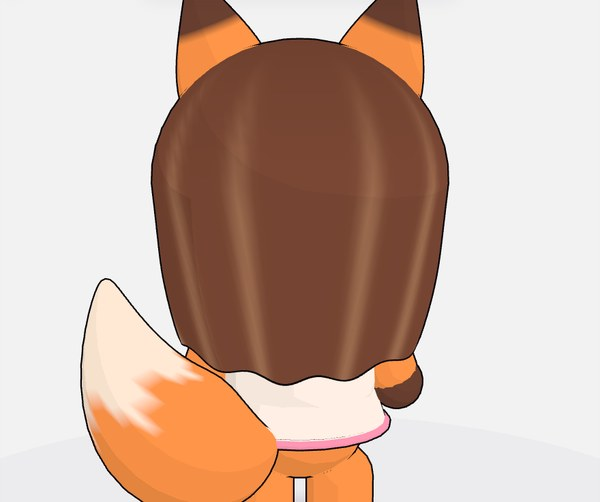
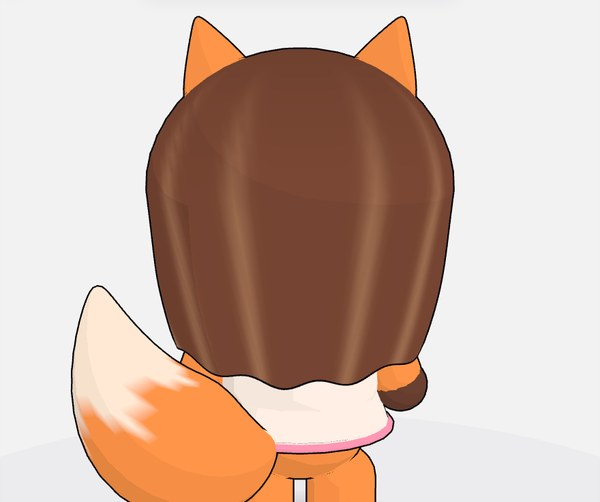
Review page for neb636/joy-look

diff --git a/neb636--joy-look/index.html b/neb636--joy-look/index.html
@@ -37,15 +37,15 @@ button:focus-visible,.pill:focus-visible{outline:3px solid var(--ink);outline-of
 </style></head><body><main>
 <span class="chip">Check-in fix</span>
 <h1>Joy: a fox that looks like Joy</h1>
-<p class="kaylee">Aunt Joy at Agong's house is a proper fox now, with Joy's long hair, big smile and lace blouse.</p>
+<p class="kaylee">Aunt Joy at Agong's house is a proper fox now, with Joy's long hair, big smile and lace blouse. Since your notes: no white beard (only her snout is white), and smaller, all-orange ears.</p>
 
 
 <h2>Before and after</h2><div class="pics"><figure class="solo"><img src="pics/joy-turn.gif" alt="All the way round" loading="lazy">
 <figcaption><b>All the way round</b>: The new Joy, turning in the character lab</figcaption></figure>
 <figure class="pair"><div><img src="pics/joy-front-before.jpg" alt="Before: From the front" loading="lazy"><span>Before</span></div><div><img src="pics/joy-front-after.jpg" alt="After: From the front" loading="lazy"><span>After</span></div>
-<figcaption><b>From the front</b>: Tall dark-tipped ears, cheek fluff, a snout, long parted hair with lighter strands, a collar of lace roses</figcaption></figure>
+<figcaption><b>From the front</b>: Smaller orange ears, a white snout only, long parted hair with lighter strands, a collar of lace roses</figcaption></figure>
 <figure class="pair"><div><img src="pics/joy-face-before.jpg" alt="Before: Her face" loading="lazy"><span>Before</span></div><div><img src="pics/joy-face-after.jpg" alt="After: Her face" loading="lazy"><span>After</span></div>
-<figcaption><b>Her face</b>: Soft brows, blush on white cheeks, the same big smile</figcaption></figure>
+<figcaption><b>Her face</b>: Soft brows, blush on her cheeks, the same big smile, no white beard</figcaption></figure>
 <figure class="pair"><div><img src="pics/joy-q-before.jpg" alt="Before: Three-quarter" loading="lazy"><span>Before</span></div><div><img src="pics/joy-q-after.jpg" alt="After: Three-quarter" loading="lazy"><span>After</span></div>
 <figcaption><b>Three-quarter</b>: A big bushy tail with a white tip, out to one side so it shows from the front</figcaption></figure>
 <figure class="pair"><div><img src="pics/joy-back-before.jpg" alt="Before: From behind" loading="lazy"><span>Before</span></div><div><img src="pics/joy-back-after.jpg" alt="After: From behind" loading="lazy"><span>After</span></div>
@@ -54,12 +54,12 @@ button:focus-visible,.pill:focus-visible{outline:3px solid var(--ink);outline-of
 <figcaption><b>In the house</b>: Downstairs at Agong's, where she lives in the game</figcaption></figure></div>
 
 
-<h2>Your call</h2><ol><li><p>Does she look like Joy to you?</p><textarea rows="2" data-q="0" placeholder="Your answer (a word is fine)"></textarea></li>
-<li><p>Her paws and ear tips are brown now, like the reference foxes. Keep them, or back to cream?</p><textarea rows="2" data-q="1" placeholder="Your answer (a word is fine)"></textarea></li></ol><button id="copy">Copy my answers</button><p class="meta" id="done"></p><textarea id="answers" rows="5" readonly aria-label="Your answers, to copy"></textarea>
+<h2>Your call</h2><ol><li><p>Does she look like Joy to you now?</p><textarea rows="2" data-q="0" placeholder="Your answer (a word is fine)"></textarea></li>
+<li><p>Inside her ears is a paler orange so they still read as ears. Good, or plain orange all through?</p><textarea rows="2" data-q="1" placeholder="Your answer (a word is fine)"></textarea></li></ol><button id="copy">Copy my answers</button><p class="meta" id="done"></p><textarea id="answers" rows="5" readonly aria-label="Your answers, to copy"></textarea>
 <h2>Play it yourself (optional)</h2><p><a class="pill" href="../#/world/characters/joy">Turn her round in the character lab</a> <a class="pill" href="../#/world/characters/joy?lineup=joy,gan,ken,jum">Joy beside her boys and Jum</a> <a class="pill" href="../#/world/thailand/hub/downstairs">Downstairs at Agong's house</a></p>
 </main>
 <script>
-const qs=["Does she look like Joy to you?","Her paws and ear tips are brown now, like the reference foxes. Keep them, or back to cream?"],titles=[]
+const qs=["Does she look like Joy to you now?","Inside her ears is a paler orange so they still read as ears. Good, or plain orange all through?"],titles=[]
 let picked=''
 document.querySelectorAll('.pick').forEach(b=>b.addEventListener('click',async()=>{const t='Pick: '+titles[+b.dataset.p];picked=t
   document.querySelectorAll('.pick').forEach(o=>{o.classList.toggle('on',o===b);o.textContent=o===b?'✓ Picked':'Pick this one'})
